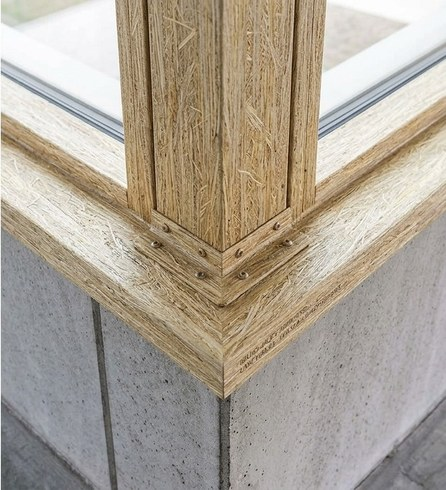
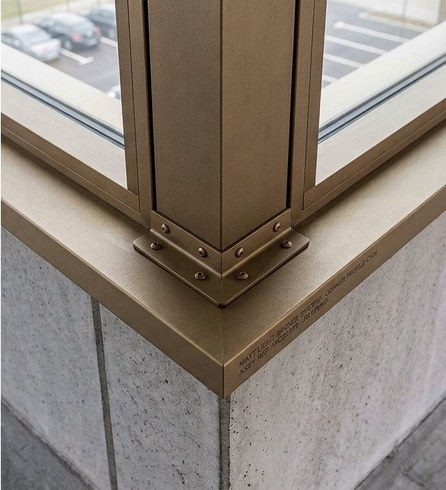
Add Gloss Duct White photo and correct Matt Light Bronze
Gloss Duct White now has a real installation photo, shown by default
on page load since it's the initially-selected finish. Matt Light
Bronze's photo is corrected to the actual bronze powder-coat frame
(the client's new photo was labeled), replacing a wood-grain photo
that had been matched to it by color guesswork alone.

Claude-Session: https://claude.ai/code/session_01ChZEH7dJR2YxM18KDPvk3f

diff --git a/index.html b/index.html
@@ -184,7 +184,7 @@
     <p class="finishes__intro reveal">Every colour on this page is a real PG Aluminium finish. Select one to preview it across the site.</p>
 
     <div class="swatch-strip reveal" id="swatch-strip" role="listbox" aria-label="Powder-coat finishes">
-      <button class="swatch" role="option" aria-selected="true" data-color="#F1EDE4" data-name="Gloss Duct White" style="--sw:#F1EDE4;">
+      <button class="swatch" role="option" aria-selected="true" data-color="#F1EDE4" data-name="Gloss Duct White" data-photo-left="images/finishes/gloss-duct-white-left.jpg" data-photo-right="images/finishes/gloss-duct-white-right.jpg" style="--sw:#F1EDE4;">
         <span class="swatch__chip"></span><span class="swatch__label">Gloss Duct White</span>
       </button>
       <button class="swatch" role="option" aria-selected="false" data-color="#2B2B27" data-name="Matt Charcoal" data-photo-left="images/finishes/matt-charcoal-left.jpg" data-photo-right="images/finishes/matt-charcoal-right.jpg" style="--sw:#2B2B27;">

diff --git a/js/main.js b/js/main.js
@@ -93,6 +93,9 @@
     });
   });
 
+  var initialSwatch = document.querySelector('.swatch[aria-selected="true"]');
+  if (initialSwatch) selectSwatch(initialSwatch);
+
   /* ---------- Scroll reveal ---------- */
   var revealEls = document.querySelectorAll(".reveal");
   if ("IntersectionObserver" in window) {
